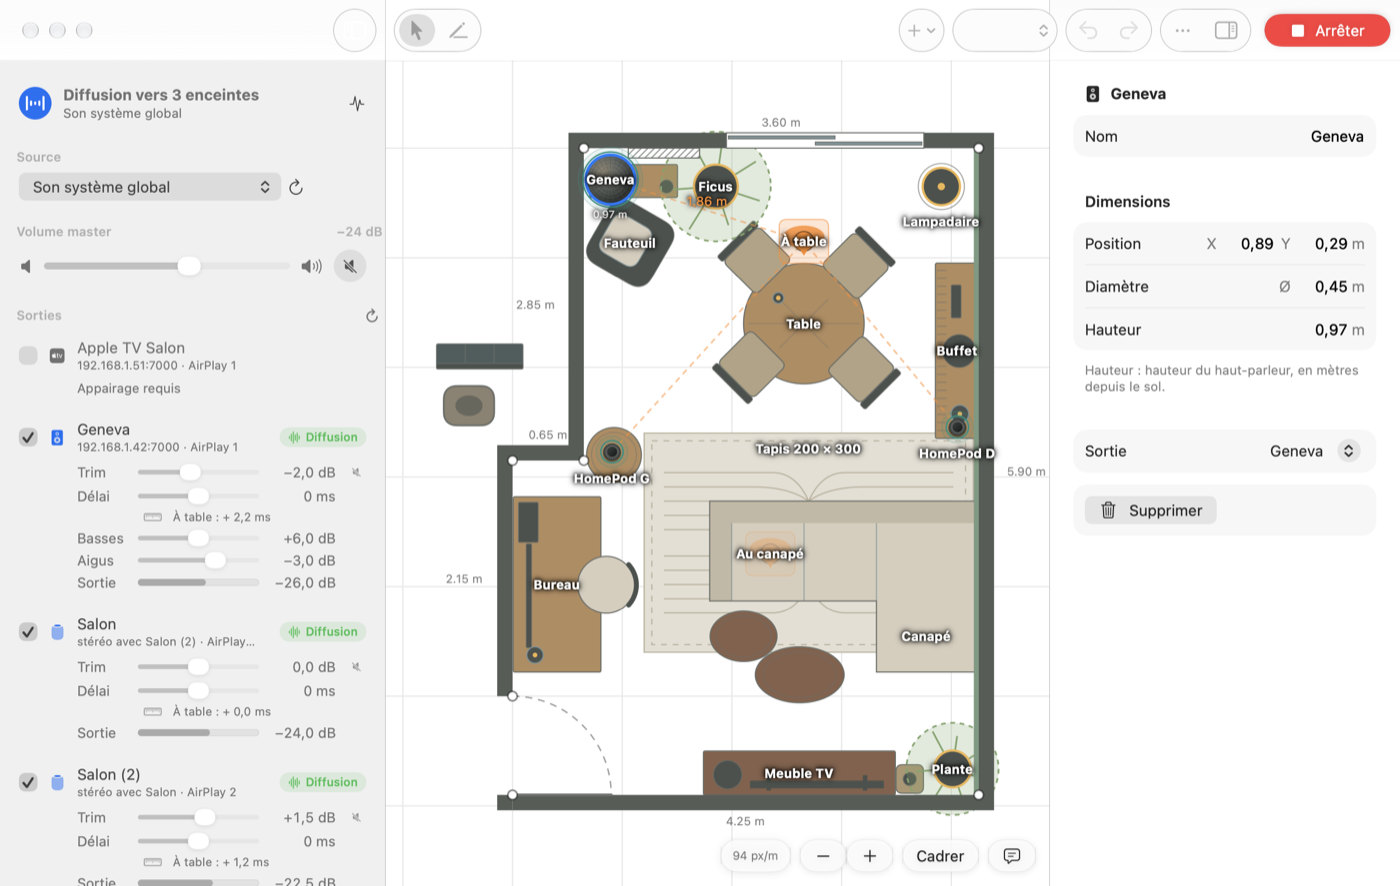
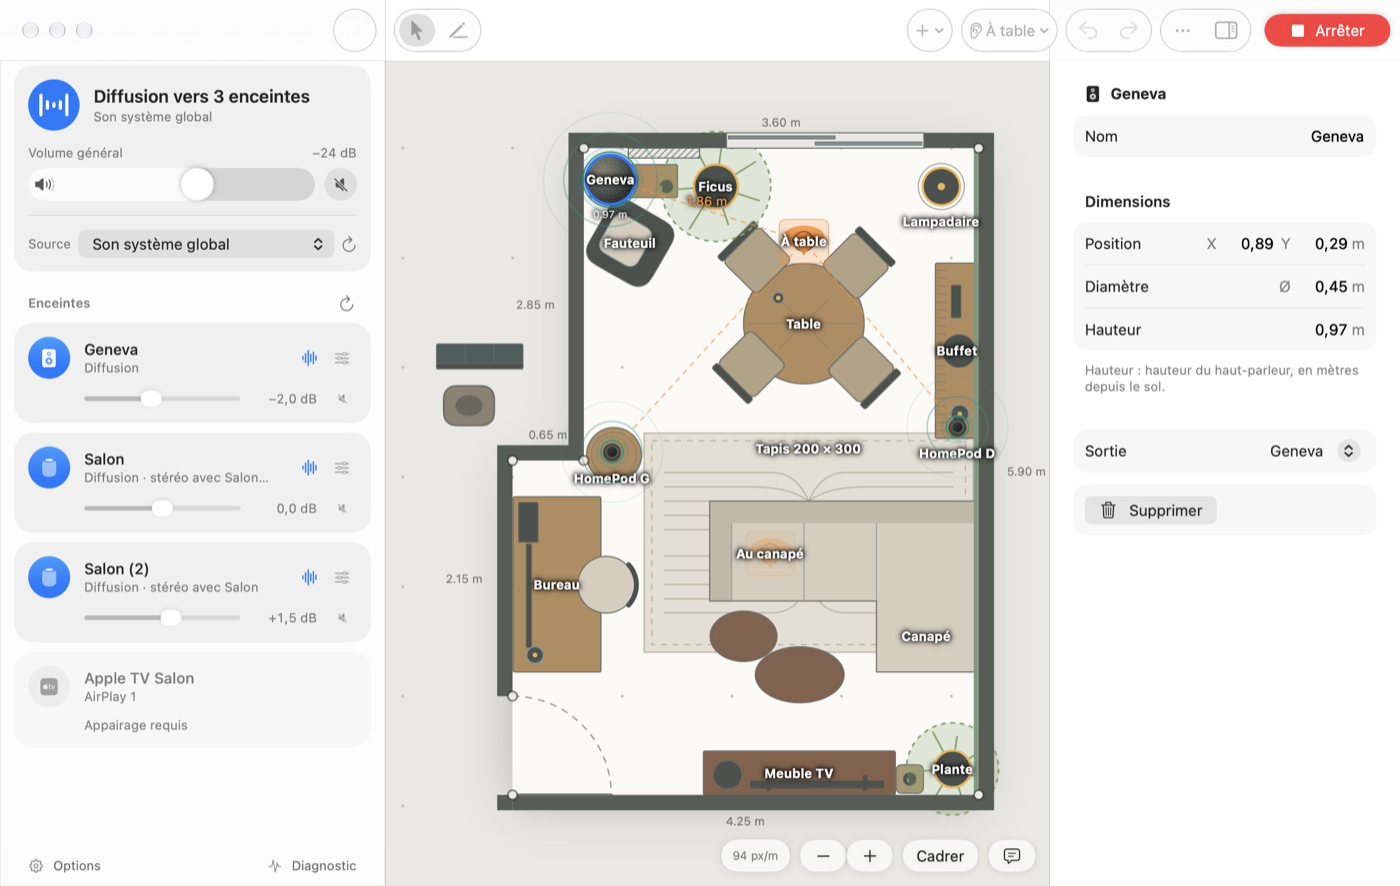
docs: describe the card sidebar, the plan floor and the options pop-up
The README pictures and text still showed the first Liquid Glass pass
and options that unfold inside the panel.

- README: new window and panel renders, the card sidebar, the
  popovers, the plan's floor and rings, the options card
- CLAUDE.md: where the sidebar cards, popovers, floor outline and
  speaker pulse live, why the panel's options are an in-window card
  rather than a popover, and that a locked screen allows neither
  screenshots nor visible windows
- PROGRESS.md: both changes with their proof level, nothing seen on
  screen yet

Changed region(s): [[0.0, 0.0305, 0.7679, 1.0], [0.0, 0.0914, 0.2457, 0.3047]]

diff --git a/PROGRESS.md b/PROGRESS.md
@@ -1261,6 +1261,8 @@ Glass. Niveaux de preuve : **test**, **mesuré** (micro, Chrome sans fenêtre), 
 | **Retard, étape 2** : délai de restitution 0,4 s (`SharedPlaybackClock.defaultPlayoutDelaySeconds`, seule constante). Retard de bout en bout ~0,45 s | **entendu** quelques minutes par palier : 0,5 et 0,4 s tiennent, 0,3 s décroche. **Ni endurance, ni capture, ni clics** à ce palier |
 | **Apple TV → récepteur AirPlay du Mac → enceintes** : le tap global capte ce son, Geneva comprise | **entendu**. Écho si l'Apple TV sort aussi sur les HomePod ; 16 sessions fermées par les HomePod au premier essai |
 | **Refonte Liquid Glass** : fenêtre en `NavigationSplitView` (barre latérale en verre, plan en pleine fenêtre sous elle, barre d'outils native avec Diffuser/Arrêter en `.glassProminent`, inspecteur natif, diagnostic en `Form`), panneau aligné sur les styles du système, silence par enceinte dans la fenêtre. Thème shadcn et bouton rotatif retirés | test, rendus hors écran (`WINDOW_PNG_DIR`, `MENUBAR_PNG_DIR`). **Le verre n'a été vu par personne** : ni rendu hors écran, ni capture d'écran possible pour un agent |
+| **Seconde passe sur la fenêtre** (demande « plus premium ») : barre latérale en cartes (en-tête, puis une carte par enceinte), réglages fins et options du Mac en fenêtres surgissantes, sol de la pièce, un point par mètre, onde autour des enceintes qu'on entend, lieu d'écoute nommé dans la barre d'outils | test (1 002 tests), rendus hors écran. **Ni le verre ni les fenêtres surgissantes n'ont été vus à l'écran**. Installée le 2026-11-10 |
+| **Options du panneau en pop-up** : une carte par-dessus le panneau, qui ne grandit plus | test (taille du panneau identique, options ouvertes ou non, 11 situations), rendus. Clic à côté, Échap et le menu Source dans la carte : **jamais essayés à la main** |
 | **Analyse statique d'Airfoil 5.12.6** (vault `airfoil-analyse.md`), sans le lancer : émetteur RAOP pur, HomePod compris ; paire stéréo en deux sessions liées (partenaire à 0,125 s, ouvertures RTSP espacées de 0,5 s) ; 1,75 s annoncées pour 2,0 s appliquées, soit les 11 025 trames ; rien de générique pour la vidéo | lecture du binaire ; elle a confirmé l'hypothèse de l'étape 1 avant la mesure |
 
 Détail de l'étape 1 et des paliers : `docs/retard_2s_notes.md`, tenu par la session « retard » et à fusionner ici à la clôture.
@@ -1272,8 +1274,9 @@ rendu plus lent encore : la mutation « relance bornée par la part des sorties 
 
 **Reste ouvert** :
 
-- **Juger le verre** dans l'app : la barre latérale au-dessus du plan, la teinte de Diffuser. Le menu « Écoute » de la barre
-  d'outils sort vide dans les rendus, sans qu'on sache s'il l'est aussi à l'écran ; « −24 dB » touche le bord de la barre latérale.
+- **Juger la fenêtre et le pop-up des Options** dans l'app : le verre de la barre latérale au-dessus du plan, les cartes, les
+  fenêtres surgissantes, l'onde des enceintes, la teinte de Diffuser. Trois autres pistes de mise en page et huit pistes d'icône
+  sont proposées à Baptiste en maquettes : rien n'en est codé.
 - **À 0,4 s** : endurance de 30 min avec capture sur `en0` (demandes de retransmission, réponses arrivées trop tard), clics enceinte
   par enceinte, convergence de la Geneva. Remonter à 0,5 s au premier craquement.
 - **Phase 1.5** : non-régression aux clics, option vidéo active puis inactive. Safari, QuickTime et Firefox avec le pilote.

diff --git a/CLAUDE.md b/CLAUDE.md
@@ -776,11 +776,22 @@ Relevés du 2026-11-03, implémentés et mesurés les 2026-11-09 et 10 : ADR `01
   `.glassProminent`, diagnostic en `Form`. Le thème shadcn (`DesignSystem.swift`) et `RotaryKnob` sont retirés : couleurs, typos
   et contrôles du système. Rendu : `WINDOW_PNG_DIR=<dossier> swift test --filter MainWindowExport`, verres de l'app et du système
   remplacés par un aplat (`windowSimulatesGlass`, `WindowSnapshot`).
+- **Barre latérale en cartes** (seconde passe, même jour) : une carte d'en-tête puis une `SpeakerCard` par enceinte, sur un voile
+  (`windowCard`), jamais un second verre. Ce qui se règle une fois est en fenêtre surgissante : `SpeakerSettings` (délai, tonalité,
+  gain, adresse) et `MacOptions`. Un rendu hors écran n'ouvre pas de popover : l'export les rend seuls
+  (`reglages-enceinte-*`, `options-mac-*`). `OutputRow` n'existe plus.
+- **Plan** : sol rempli à l'intérieur des murs (`PlanRenderer.floorOutlines` : boucle fermée, ou suite ouverte par une porte et
+  refermée d'un trait ; aucun sol sur un embranchement ni sous une image de fond), un point par mètre au lieu de lignes, et
+  `SpeakerPulse`, l'onde des enceintes qu'on entend, dans son propre `Canvas` pour ne pas redessiner le plan 30 fois par seconde.
+- **Options du panneau : une carte dessinée dans la fenêtre du panneau** (`PanelPopup`), pas un `.popover`. Rien ne garantit
+  qu'un popover présenté depuis un `MenuBarExtra` ne ferme pas le panneau, et la sonde n'a pas pu trancher (écran verrouillé).
+  Le panneau garde sa taille, options ouvertes ou non (`PanelPopupTests`). Sonde à rejouer écran déverrouillé :
+  `scratchpad/options-popup/probe/probe.swift` (non versionnée).
 - **Diffuser se déclenche par ⌘↩, jamais par `.defaultAction`** : Retour valide un champ de l'inspecteur, et cette validation ne
   doit pas faire partir le son.
-- **Un agent ne peut pas faire de capture d'écran** sur ce Mac (`screencapture` : « could not create image from display ») : le
-  verre se juge par Baptiste, dans l'app. Le menu « Écoute » de la barre d'outils sort vide dans les rendus, sans qu'on sache
-  s'il l'est à l'écran.
+- **Écran verrouillé, ni capture ni fenêtre** : `screencapture` échoue (« could not create image from display »), et une app
+  lancée par un agent n'ouvre aucune fenêtre visible ni ne devient active (sonde du 2026-11-10 : `screenLocked=1`). Le verre se
+  juge par Baptiste, dans l'app.
 - **Paire stéréo** : un geste vaut pour les deux membres (`StereoPairs`), et la paire entre en session d'un seul coup. Un membre
   qui apparaît rejoint sa paire si elle est cochée ; jamais l'inverse (`joinCheckedPairs`).
 - **`ImageRenderer` barre les contrôles AppKit** : le panneau se rend dans une fenêtre hors écran,

diff --git a/README.md b/README.md
@@ -107,13 +107,17 @@ Dans la barre de menus :
 - **Écoute** : deux lieux sélectionnables, « À table » par défaut et « Au canapé ». Le lieu choisi compense
   la distance de chaque enceinte, en plus du réglage manuel.
 - **Options** : source (système, application, entrée physique), « Couper le son du Mac », touches de volume du Mac,
-  « Caler l'image des vidéos », démarrage à l'ouverture de session.
+  « Caler l'image des vidéos », démarrage à l'ouverture de session. Elles s'ouvrent dans une carte par-dessus le
+  panneau, qui garde sa taille.
 
 « Plan et réglages… » ouvre la fenêtre, au style Liquid Glass de macOS 26 :
 
-- une barre latérale en verre : état, source, volume master, et les réglages de chaque enceinte (trim, délai, tonalité,
-  silence) ;
-- le plan de la pièce à l'échelle, en pleine fenêtre ;
+- une barre latérale en verre : une carte pour ce qui joue (état, volume général, source), puis une carte par enceinte
+  (la pastille qui la coche, son état, son volume, son silence) ;
+- le délai, la tonalité et l'adresse d'une enceinte dans une fenêtre surgissante de sa carte, les options du Mac dans
+  une autre, au pied de la barre ;
+- le plan de la pièce à l'échelle, en pleine fenêtre : le sol posé sur un fond doux, un point par mètre, et une onde
+  autour des enceintes qu'on entend ;
 - une barre d'outils native avec le bouton Diffuser/Arrêter (⌘↩) ;
 - l'inspecteur de macOS pour l'objet sélectionné ;
 - le diagnostic.
